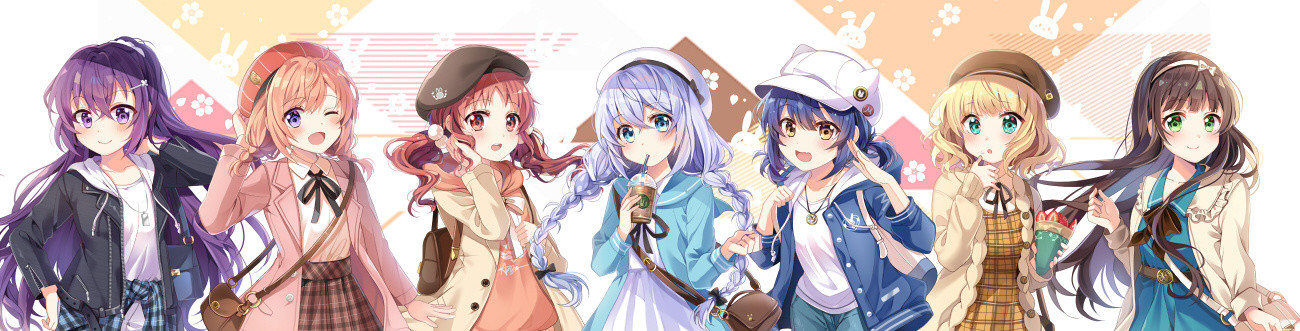
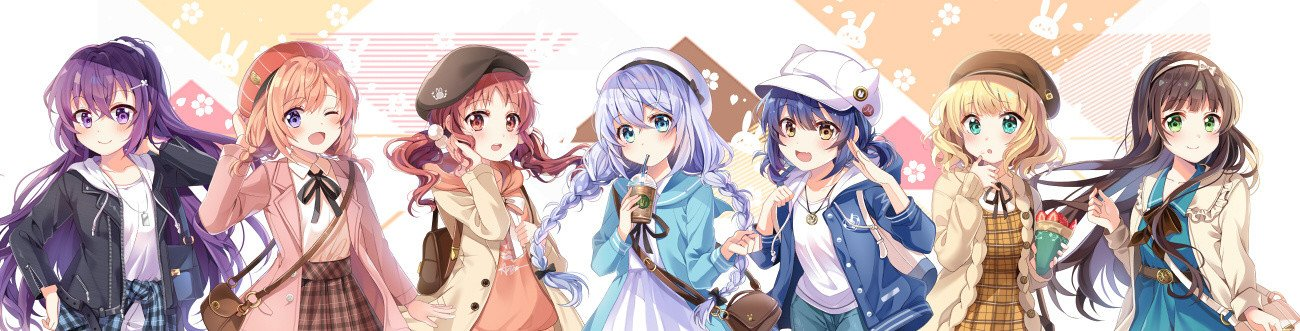
compress images

diff --git a/views/site/error.php b/views/site/error.php
@@ -16,7 +16,7 @@ $this->title = $name;
 </div>
 
 <div class="card animate__animated animate__fadeIn animate__faster">
-    <img src="<?= Yii::getAlias('@web') . '/images/error-header.png' ?>" class="card-img-top d-none d-md-block">
+    <img src="<?= Yii::getAlias('@web') . '/images/error-header.jpg' ?>" class="card-img-top d-none d-md-block">
     <div class="card-body">
         <h3 class="card-title"><?= Html::encode($this->title) ?></h3>
         页面没有如您所期望地加载，在大多数情况下可能是因为访问权限受限或者页面不存在。<br>
